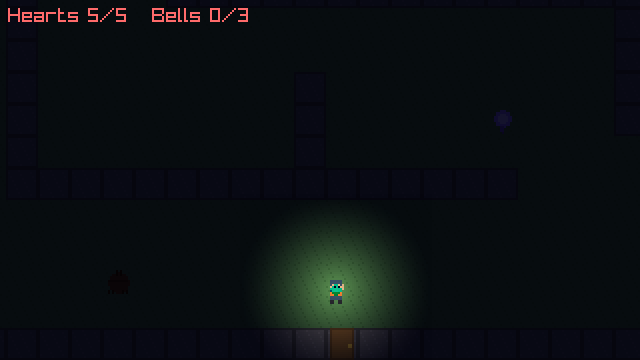
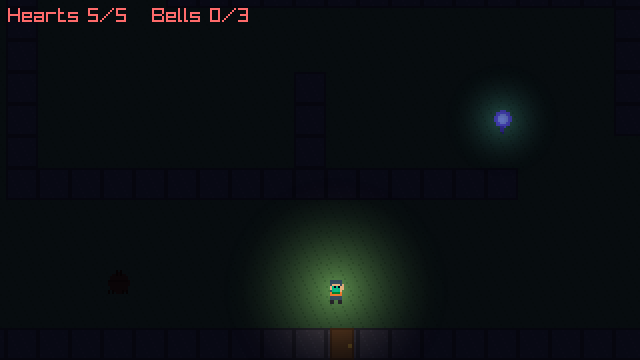
Bramble: the cave is lit by lights: the lantern, its items and the wisps
The cave's darkness is a <Lighting ambient="#16162c"> (with the flicker
shader) and the lantern a <Light radius={56}>; assets/light.png and its
generator go. glowsOf (rules/view.ts) makes the items still lying on the
map glow warm and faint and each wisp carry a cold light, numbers guessed;
a rules test covers it. The Play/Cave story picture is stored again.

Claude-Session: https://claude.ai/code/session_01AvAMiX4qj3kY8qWL6dxtGe

Changed region(s): [[0.75, 0.275, 0.8438, 0.3972]]

diff --git a/games/bramble/src/Play.tsx b/games/bramble/src/Play.tsx
@@ -1,4 +1,4 @@
-import { Camera, Entity, Hud, Layer, ParticleLayer, Sprite, Text, useInput, useUpdate } from "@rge/runtime/jsx";
+import { Camera, Entity, Hud, Light, Lighting, ParticleLayer, Sprite, Text, useInput, useUpdate } from "@rge/runtime/jsx";
 
 import { Dialogue } from "./Dialogue.tsx";
 import { fx } from "./effects.ts";
@@ -8,7 +8,7 @@ import { Pause } from "./Pause.tsx";
 import { BELLS_NEEDED, MAX_HEARTS } from "./rules/constants.ts";
 import { readInput } from "./rules/controls.ts";
 import { mapPixels } from "./rules/maps.ts";
-import { heroOf } from "./rules/view.ts";
+import { glowsOf, heroOf } from "./rules/view.ts";
 import { World } from "./World.tsx";
 
 /** The play screen: the map, the character in a camera that stays inside it, and the HUD. The one place the world is stepped. */
@@ -44,12 +44,15 @@ export function Play() {
         />
       </Camera>
       <ParticleLayer particles={fx} />
-      {/* The cave is dark: a layer of near-black multiplied over it, with the lantern's light added where the character is, through a
-          shader that makes the light flicker and the edges darker (the software renderer, in tests, draws it without). */}
+      {/* The cave is dark: lit only by the lantern, by the items still lying there and by the wisps, through a shader that makes the
+          light flicker and the edges darker (the software renderer, in tests, draws it without). */}
       {run.map === "cave" && (
-        <Layer blend="multiply" clear="#16162c" childBlend="add" shader="cave.glsl" params={[0.12]}>
-          <Sprite image="light.png" originX={48} originY={48} x={x + 8} y={y + 8} />
-        </Layer>
+        <Lighting ambient="#16162c" shader="cave.glsl" params={[0.12]}>
+          <Light radius={56} color="#ffe2b0" x={x + 8} y={y + 8} />
+          {glowsOf(run).map((g) => (
+            <Light key={g.id} radius={g.radius} color={g.color} intensity={g.intensity} x={g.x} y={g.y} />
+          ))}
+        </Lighting>
       )}
       <Hud>
         <Text x={4} y={3} color="#ff6b6b">{`Hearts ${run.hearts}/${MAX_HEARTS}   Bells ${run.items.bell ?? 0}/${BELLS_NEEDED}`}</Text>

diff --git a/games/bramble/src/rules/view.ts b/games/bramble/src/rules/view.ts
@@ -106,6 +106,38 @@ export function spotsOf(run: Run): Spot[] {
   ];
 }
 
+/** A light in the dark: its middle in map pixels, how far it reaches, its colour and strength (for `<Light>`). */
+export interface Glow {
+  readonly id: string;
+  readonly x: number;
+  readonly y: number;
+  readonly radius: number;
+  readonly color: string;
+  readonly intensity: number;
+}
+
+/**
+ * What glows on the map besides the lantern: an item still lying there (warm, faint, so a dark cave shows where to look), and each
+ * wisp (cold, as it drifts). Numbers *(guess)*: not played yet.
+ */
+export function glowsOf(run: Run): Glow[] {
+  const def = MAPS[run.map];
+  const items = def.pickups
+    .filter((p) => !run.taken.includes(p.id))
+    .map((p) => ({
+      id: `pickup:${p.id}`,
+      x: p.col * TILE + TILE / 2,
+      y: p.row * TILE + TILE / 2,
+      radius: 20,
+      color: "#ffd890",
+      intensity: 0.5,
+    }));
+  const wisps = run.enemies
+    .filter((e) => e.map === run.map && e.kind === "wisp")
+    .map((e) => ({ id: `wisp:${e.id}`, x: e.x + BODY / 2, y: e.y + BODY / 2, radius: 28, color: "#8fb8ff", intensity: 0.6 }));
+  return [...items, ...wisps];
+}
+
 const NO_DIALOGUE: DialogueView = { name: "", page: "", shown: 0, more: "" };
 
 /** The conversation on screen, if any. */

diff --git a/games/bramble/tools/make-assets.ts b/games/bramble/tools/make-assets.ts
@@ -181,18 +181,6 @@ for (let i = 3; i < 13; i++) {
 }
 writeFileSync(join(assets, "things.png"), rgbaPng(FRAMES * TILE, TILE, sheet));
 
-// The lantern's light, for the cave's light layer (drawn with childBlend="add" in a multiply layer): white at the middle, falling
-// off smoothly to black at the edge, so where it is drawn the dark is lifted and elsewhere it stays. 96 × 96, the middle at 48, 48.
-const LIGHT = 96;
-const light = new Uint8Array(LIGHT * LIGHT * 4);
-for (let y = 0; y < LIGHT; y++) {
-  for (let x = 0; x < LIGHT; x++) {
-    const d = Math.hypot(x + 0.5 - LIGHT / 2, y + 0.5 - LIGHT / 2) / (LIGHT / 2);
-    const v = Math.round(255 * Math.max(0, 1 - d) ** 1.5);
-    light.set([v, Math.round(v * 0.92), Math.round(v * 0.75), 255], (y * LIGHT + x) * 4);
-  }
-}
-writeFileSync(join(assets, "light.png"), rgbaPng(LIGHT, LIGHT, light));
 console.log("wrote assets/things.png");
 
 // ---- Sound: short synthesised effects and a looping theme (16-bit mono PCM WAVs). ----

diff --git a/games/bramble/test/rules.test.ts b/games/bramble/test/rules.test.ts
@@ -320,3 +320,23 @@ test("the inventory is eight slots, in a fixed order, with the empty ones last",
     ["", 0],
   ]);
 });
+
+test("what glows in the dark: the items still lying on the map, warm, and each wisp there, cold; a taken item no longer glows", async () => {
+  const { glowsOf } = await import("../src/rules/view.ts");
+  const { newRun } = await import("../src/rules/run.ts");
+  const cave = { ...newRun(), map: "cave" as const };
+  const glows = glowsOf(cave);
+  assert.deepEqual(
+    glows
+      .filter((g) => g.id.startsWith("pickup:"))
+      .map((g) => g.id)
+      .sort(),
+    ["pickup:bell-cave", "pickup:key"]
+  );
+  assert.ok(
+    glows.some((g) => g.id.startsWith("wisp:") && g.color === "#8fb8ff"),
+    "the cave's wisp carries a cold light"
+  );
+  const taken = glowsOf({ ...cave, taken: ["key"] });
+  assert.ok(!taken.some((g) => g.id === "pickup:key"));
+});

diff --git a/games/bramble/DESIGN.md b/games/bramble/DESIGN.md
@@ -58,12 +58,13 @@ took 18 ms (a garbage collection or a JIT step, nowhere near a door).
 
 ## The cave is dark (2026-11-15)
 
-The cave is drawn under a `<Layer blend="multiply" clear="#16162c" childBlend="add">` with the lantern's light in it, a soft white
-disc 96 pixels across (`assets/light.png`, made by `tools/make-assets.ts`) centred on the character (`Play.tsx`). It is the greybox for
+The cave is drawn under a `<Lighting ambient="#16162c">` (first a `<Layer>` with a light sprite, then, since step 7, the engine's own
+lights): the lantern is a `<Light radius={56}>` on the character, each item still lying in the cave glows warm and faint and each wisp
+carries a cold light (`glowsOf` in `rules/view.ts`, its numbers *(guess)*). It is the greybox for
 the engine's lighting (NEXT_PRIORITIES.md, "Now", steps 5 to 7). Since step 6 the layer goes through `assets/cave.glsl`, which makes the
 lantern's light flicker a little (`params[0]`, 0.12 *(guess)*) and darkens the screen's edges; the stored story picture is the software
 renderer's, without it. The story `Play/Cave` keeps its
-picture. Not decided yet: how dark it should be when played, whether the bell and the key glow, and whether the wisp carries a light.
+picture. Not decided yet: how dark it should be when played, and how bright the glows are (the bell and the key glow and the wisp carries a light, all guesses).
 
 ## Findings while writing
 
